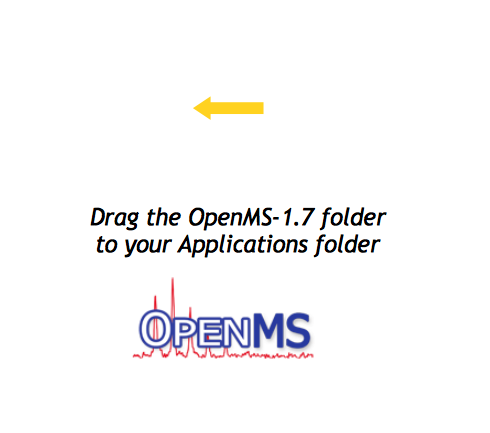
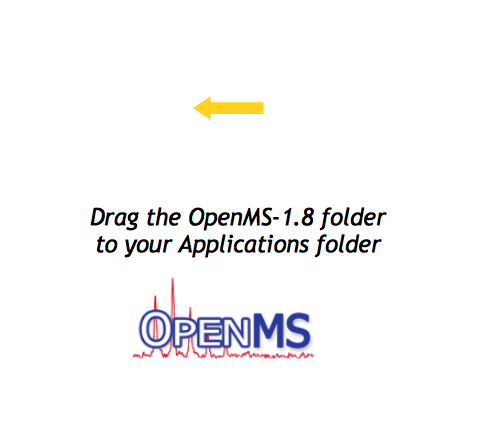
updated HEAD version to 1.8
git-svn-id: https://open-ms.svn.sourceforge.net/svnroot/open-ms/OpenMS@7371 6adb6e08-d915-0410-941f-83917bcadc18

Changed region(s): [[0.3367, 0.4804, 0.7959, 0.6005]]

diff --git a/source/TEST/VersionInfo_test.C b/source/TEST/VersionInfo_test.C
@@ -75,7 +75,7 @@ END_SECTION
 START_SECTION(static Int getMinorVersion())
 {
 	STATUS("We might need to update this for a new release, oops!");
-	TEST_EQUAL(VersionInfo::getMinorVersion(), 7);
+  TEST_EQUAL(VersionInfo::getMinorVersion(), 8);
 }
 END_SECTION
 
